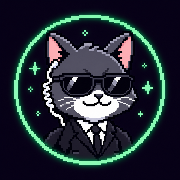
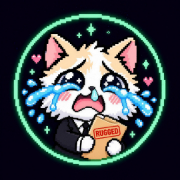
Site review: kittens stay in frame, the phone hero, crisp files, the kit's new coin art
A review of the new home page in headless Chromium (3D and no-WebGL, 390 and
1280 px, night and day), with its interactions driven in Playwright.

The 3D agency
- The camera is framed over the whole slow swing, not a quarter of it, so
  no kitten walks off the edge at either end (Popcat left the phone view,
  and the row pressed on the buttons on a wide screen).
- With reduced motion a frame is drawn only when something changes (a drag,
  a resize, the preference); the scene still stands still.
- The name tag's button draws its arrow in CSS; the pixel font has no
  triangle and showed a dot.

The phone hero
- The scrim no longer darkens the kittens: it covers the title and, below
  the stage, the words, and stops at the stage's edge.
- The roster picture (the fallback) shows all six kittens instead of four,
  feet on the band's floor, the sky fading in above.

The rest of the page
- An agent's file shows its kitten at exactly 2x (Popcat 1.5x), so every
  art pixel stays square; on a phone its floor spans the panel instead of
  shrinking to the kitten.
- Crying Cat in the scam warning stands at exactly half size.
- The sample case file sits level, so its monospace lines stay sharp.
- Code turns ligatures off: "https://" and "chrome://" read as typed, not
  as "https: //". The clone command breaks only between parts of the address.
- The $CIA portrait stays in view beside the long column on a wide screen;
  the contract-address note wraps evenly.
[…]

diff --git a/site/assets/home.css b/site/assets/home.css
@@ -37,7 +37,9 @@ a:hover{color:var(--mint-text)}
 :focus-visible{outline:3px solid var(--mint);outline-offset:3px}
 p{margin:0 0 14px;color:var(--text-soft)}
 b,strong{color:var(--text)}
+code,pre,.post,.ca,.slot{font-variant-ligatures:none}
 code{font-family:var(--mono);font-size:.86em;background:var(--bg-2);border:1px solid var(--line);padding:1px 5px;overflow-wrap:anywhere}
+code .nw{white-space:nowrap}
 .skip{position:absolute;left:-9999px;top:0}
 .skip:focus{left:12px;top:12px;z-index:60;background:var(--card);color:var(--text);padding:8px 12px}
 .wrap{max-width:1180px;margin:0 auto;padding:0 24px}
@@ -149,11 +151,13 @@ code{font-family:var(--mono);font-size:.86em;background:var(--bg-2);border:1px s
   .hero{min-height:0}
   .hero-grid{grid-template-columns:minmax(0,1fr);grid-template-areas:"top" "stage" "bottom";grid-template-rows:auto auto auto;padding-top:28px;padding-bottom:36px}
   .stage{position:relative;height:clamp(300px,94vw,500px);min-height:0;margin:-8px -24px 0}
-  .hero-poster{object-fit:cover;object-position:74% 66%}
+  .hero-poster{inset:auto auto 0 -37.3%;width:137%;max-width:none;height:auto;aspect-ratio:1200/514;object-fit:cover;
+    -webkit-mask-image:linear-gradient(180deg,transparent 0,#000 30%);mask-image:linear-gradient(180deg,transparent 0,#000 30%)}
   .hero[data-scene="poster"] .stage,.hero[data-scene="loading"] .stage,.hero[data-scene="fallback"] .stage{box-shadow:inset 0 3px 0 rgba(20,241,149,.35),inset 0 -3px 0 rgba(20,241,149,.35)}
-  .hero::after{background:
-    linear-gradient(180deg,rgba(11,7,22,.72) 0%,rgba(11,7,22,.2) 30%,rgba(11,7,22,0) 40%),
-    linear-gradient(0deg,rgba(11,7,22,.97) 0%,rgba(11,7,22,.86) 34%,rgba(11,7,22,0) 52%)}
+  /* The scrim darkens behind the title and, below the stage, behind the words, never over the kittens. */
+  .hero::after{background:linear-gradient(180deg,rgba(11,7,22,.72) 0%,rgba(11,7,22,.2) 30%,rgba(11,7,22,0) 40%)}
+  .hero-bottom::before{content:"";position:absolute;z-index:-1;top:0;bottom:-64px;left:-50vw;right:-50vw;
+    background:linear-gradient(180deg,rgba(11,7,22,0) 0,rgba(11,7,22,.9) 26px,rgba(11,7,22,.97) 100%)}
   .hero h1{font-size:clamp(50px,13.4vw,84px);margin-top:18px}
   .hint{right:12px;bottom:10px}
 }
@@ -168,7 +172,8 @@ code{font-family:var(--mono);font-size:.86em;background:var(--bg-2);border:1px s
   clip-path:polygon(0 0,100% 0,100% 25%,75% 25%,75% 50%,62.5% 50%,62.5% 75%,37.5% 75%,37.5% 50%,25% 50%,25% 25%,0 25%)}
 .nt-code{font:400 11px/1.2 var(--pixel);color:var(--accent);letter-spacing:.02em;text-transform:uppercase}
 .nt-beat{font:400 8px/1.3 var(--pixel);color:#e6e0ff;text-transform:uppercase}
-.nt-open{font:400 8px/1 var(--pixel);color:#0b0716;background:var(--accent);border:0;padding:7px 8px 6px;cursor:pointer;margin-top:2px;pointer-events:auto}
+.nt-open{font:400 8px/1 var(--pixel);color:#0b0716;background:var(--accent);border:0;padding:7px 8px 6px;cursor:pointer;margin-top:2px;pointer-events:auto;display:inline-flex;align-items:center;gap:6px}
+.nt-open::after{content:"";width:6px;height:8px;background:currentColor;clip-path:polygon(0 0,50% 0,50% 25%,75% 25%,75% 37.5%,100% 37.5%,100% 62.5%,75% 62.5%,75% 75%,50% 75%,50% 100%,0 100%)}
 .nametag.hover .nt-open{display:none}
 
 /* ── sections ──────────────────────────────────────────────────────────── */
@@ -274,8 +279,8 @@ details.file[open] summary::before{transform:rotate(90deg)}
 .rules li::before{content:counter(rule);grid-row:span 2;width:44px;height:44px;display:grid;place-content:center;font:400 16px/1 var(--pixel);color:#04160e;background:var(--mint);clip-path:var(--corners);box-shadow:inset 0 -4px 0 rgba(0,0,0,.25)}
 .rules h3{font:800 19px/1.3 var(--sans);color:var(--text);margin:8px 0 4px}
 .rules p{font-size:15px;margin:0}
-.casefile{--accent:var(--tear);position:relative;margin:0;background:var(--card);padding:26px 24px 24px;box-shadow:0 0 0 3px var(--tear),10px 10px 0 3px var(--shadow-ink);transform:rotate(.6deg)}
-@media (max-width:600px){.casefile{padding:22px 16px 18px;transform:none}}
+.casefile{--accent:var(--tear);position:relative;margin:0;background:var(--card);padding:26px 24px 24px;box-shadow:0 0 0 3px var(--tear),10px 10px 0 3px var(--shadow-ink)}
+@media (max-width:600px){.casefile{padding:22px 16px 18px}}
 .casefile figcaption{font-size:14px;color:var(--text-soft);margin:0 0 16px;padding-right:120px}
 @media (max-width:600px){.casefile figcaption{padding-right:0;padding-top:38px}}
 .case-stamp{position:absolute;top:18px;right:16px;font:400 12px/1 var(--pixel);text-transform:uppercase;color:var(--bad);border:3px dashed var(--bad);padding:9px 10px 8px;transform:rotate(-7deg);background:var(--card)}
@@ -293,6 +298,7 @@ details.file[open] summary::before{transform:rotate(90deg)}
 .cia-grid{display:grid;grid-template-columns:minmax(0,400px) minmax(0,1fr);gap:60px;align-items:start}
 @media (max-width:900px){.cia-grid{grid-template-columns:minmax(0,1fr);gap:40px}}
 .cia-portrait{position:relative;max-width:400px;margin:3px}
+@media (min-width:901px){.cia-portrait{position:sticky;top:104px}}
 .cia-portrait img{display:block;width:100%;height:auto;image-rendering:pixelated;box-shadow:0 0 0 3px var(--gold),12px 12px 0 3px var(--shadow-ink);background:#0b0716}
 @media (max-width:900px){.cia-portrait{max-width:300px}}
 .ticker{position:absolute;right:-14px;bottom:-22px;margin:0;font:400 clamp(40px,5vw,64px)/1 var(--display);color:var(--gold);background:#0b0716;padding:6px 14px 8px;box-shadow:0 0 0 3px var(--gold);transform:rotate(-4deg)}
@@ -308,14 +314,14 @@ details.file[open] summary::before{transform:rotate(90deg)}
 .ca-slot{display:grid;gap:8px}
 .ca{display:block;font:400 14px/1.4 var(--mono);color:var(--text);background:var(--bg-2);border:2px dashed var(--line-2);padding:12px 14px;overflow-wrap:anywhere;user-select:all}
 .ca[data-empty="true"]{color:var(--text-faint);font-style:italic;user-select:none}
-.ca-note{font:400 9px/1.6 var(--pixel);text-transform:uppercase;color:var(--gold-text)}
+.ca-note{font:400 9px/1.6 var(--pixel);text-transform:uppercase;color:var(--gold-text);text-wrap:balance}
 .scam{margin-top:32px;position:relative;background:var(--card);padding:22px 24px 20px 24px;box-shadow:0 0 0 3px var(--bad),8px 8px 0 3px var(--shadow-ink)}
 .scam-title{font:400 12px/1.4 var(--pixel);text-transform:uppercase;color:var(--bad);margin:0 0 10px}
 :root[data-theme="light"] .scam-title{color:#b8372a}
 .scam p{font-size:15.5px}
 .scam p:last-child{margin:0}
 .scam .crying{display:flex;align-items:center;gap:12px;font-weight:800;color:var(--tear-text)}
-.scam .crying img{width:auto;height:52px;flex:none}
+.scam .crying img{width:72px;height:auto;flex:none}
 
 /* ── CoinMarketCat ─────────────────────────────────────────────────────── */
 .cmc{background:linear-gradient(180deg,rgba(20,241,149,.07),transparent 380px),var(--bg-2);border-top:3px solid var(--line)}
@@ -372,8 +378,6 @@ details.file[open] summary::before{transform:rotate(90deg)}
 .dossier .agent .agent-floor{width:min(40%,320px);position:sticky;top:0;align-self:flex-start;height:min(560px,calc(100dvh - 54px));min-height:360px}
 /* On a wide screen the kitten in a file stands at twice its size (Popcat, holding its radar out, at one and a half). */
 @media (min-width:641px) and (min-height:620px){
-  .dossier .agent .agent-floor .kitten{width:auto;height:414px}
-  .dossier .agent[data-cat="popcat"] .agent-floor .kitten{height:316px}
   .dossier .agent .agent-floor::after{width:190px;margin-left:-95px;height:20px;bottom:30px}
 }
 .dossier .agent-body{padding:26px 28px 28px}
@@ -382,7 +386,7 @@ details.file[open] summary::before{transform:rotate(90deg)}
 @media (max-width:640px){
   .dossier{width:calc(100vw - 16px);max-height:calc(100dvh - 16px)}
   .dossier .agent{flex-direction:column}
-  .dossier .agent .agent-floor{width:auto;min-height:0;height:250px;position:relative}
+  .dossier .agent .agent-floor{width:auto;align-self:stretch;min-height:0;height:250px;position:relative}
   .dossier .agent-body{padding:20px 18px 22px}
   .dossier .agent h3{font-size:38px}
 }

diff --git a/site/index.html b/site/index.html
@@ -15,7 +15,7 @@
 <meta property="og:image" content="https://catintelligenceagency.com/assets/og-1200x630.jpg">
 <meta property="og:image:width" content="1200">
 <meta property="og:image:height" content="630">
-<meta property="og:image:alt" content="Six pixel kittens in black suits standing on a pixel floor at night, beside the title Cat Intelligence Agency">
+<meta property="og:image:alt" content="Six pixel kittens in black suits on a pixel floor at night, under the title Cat Intelligence Agency: Crying Cat sobs over a case file stamped RUGGED while the Director pats its head">
 <meta name="twitter:card" content="summary_large_image">
 <link rel="icon" href="assets/favicon-32.png" type="image/png" sizes="32x32">
 <link rel="icon" href="assets/favicon-64.png" type="image/png" sizes="64x64">
@@ -31,7 +31,7 @@
 })();
 </script>
 <link rel="stylesheet" href="assets/home.css">
-<link rel="preload" as="image" href="assets/site-hero-1200x514.jpg" imagesrcset="assets/site-hero-1200x514.jpg 1200w, assets/site-hero-2400x1029.jpg 2400w" imagesizes="(max-width: 900px) 170vw, 62vw">
+<link rel="preload" as="image" href="assets/site-hero-1200x514.jpg" imagesrcset="assets/site-hero-1200x514.jpg 1200w, assets/site-hero-2400x1029.jpg 2400w" imagesizes="(max-width: 900px) 140vw, 62vw">
 <script type="importmap">
 {
   "imports": {
@@ -66,7 +66,7 @@
   <div class="nametag" id="nametag" hidden>
     <span class="nt-code"></span>
     <span class="nt-beat"></span>
-    <button class="nt-open" type="button">Open file ▸</button>
+    <button class="nt-open" type="button">Open file</button>
   </div>
   <div class="wrap hero-grid">
     <div class="hero-top">
@@ -75,7 +75,7 @@
       <p class="headline">We read the chain.</p>
     </div>
     <div class="stage">
-      <img class="hero-poster" src="assets/site-hero-1200x514.jpg" srcset="assets/site-hero-1200x514.jpg 1200w, assets/site-hero-2400x1029.jpg 2400w" sizes="(max-width: 900px) 170vw, 62vw" width="1200" height="514" alt="The agency's six pixel kittens in black suits standing in a row on a pixel floor, under a night skyline" fetchpriority="high">
+      <img class="hero-poster" src="assets/site-hero-1200x514.jpg" srcset="assets/site-hero-1200x514.jpg 1200w, assets/site-hero-2400x1029.jpg 2400w" sizes="(max-width: 900px) 140vw, 62vw" width="1200" height="514" alt="The agency's six pixel kittens in black suits on a pixel floor under a night skyline: Crying Cat sobs over a case file stamped RUGGED while the Director pats its head" fetchpriority="high">
       <p class="hint" aria-hidden="true"><span class="pc">Drag to look around · click a kitten</span><span class="touch">Swipe sideways · tap a kitten</span></p>
     </div>
     <div class="hero-bottom">
@@ -102,7 +102,7 @@
         <h3>The Director</h3>
         <p class="beat"><b>Beat</b> Runs the agency, speaks for the main account and signs every correction. The logo.</p>
         <p class="catch">“The chain remembers.”</p>
-        <p class="bio">A secret-agent cat in a dark suit and sunglasses, with an earpiece. Every case opens with “Case open.” and ends with “Case closed.” When the agency gets one wrong, the correction goes out under the Director's name.</p>
+        <p class="bio">A secret-agent pixel kitten in a black suit and sunglasses, with an earpiece. When the agency gets a case wrong, the correction goes out under the Director's name, quoting the original. Its other lines: “Case open.” and “Case closed.”</p>
         <details class="file">
           <summary>Open the file</summary>
           <div class="file-body">
@@ -129,7 +129,7 @@ We got it wrong. The original stays up, corrected. - The Director</pre>
           <p class="catch">“Ten seconds. Then maybe.”</p>
           <p class="bio">CoinMarketCat watches new Solana launches and, once you arm it, buys only the ones still at or above entry ten seconds later, from your Phantom wallet or an autopilot wallet you fund, inside the take-profit, ticket and daily budget you set. It learned that rule from a trading lane that lost money, starts in Observe, and prints that losing record beside the switch that arms it.</p>
           <details class="file">
-            <summary>Open the file</summary>
+            <summary>Quick facts</summary>
             <dl class="file-body facts">
               <dt>Type</dt><dd>Software. A Chrome extension you build and run yourself.</dd>
               <dt>Hunts</dt><dd>New Solana launches on pump.fun, including launches priced in tokenised stocks like GLDx, TSLAx and SPYx. Once you switch it on, it also hunts new stock-paired pools across Solana, through Jupiter.</dd>
@@ -245,7 +245,7 @@ We got it wrong. The original stays up, corrected. - The Director</pre>
         <figcaption id="case-cap"><b>Sample case file.</b> A template with placeholder fields, not a real case: every <span class="slot">[slot]</span> is filled from public data before it is posted.</figcaption>
         <div class="thread">
           <div class="post-card">
-            <div class="who"><img src="assets/cia-director-80.png" width="40" height="40" alt="" loading="lazy"><span><b>Cat Intelligence Agency</b> <span class="slot">@[handle]</span></span></div>
+            <div class="who"><img src="assets/cia-avatar-80.png" width="40" height="40" alt="" loading="lazy"><span><b>Cat Intelligence Agency</b> <span class="slot">@[handle]</span></span></div>
 <pre class="post">CRYING CAT | CASE CRY-<span class="slot">[001]</span> | RUG REPORT
 
 Token: <span class="slot">[name]</span> ($<span class="slot">[TICKER]</span>)
@@ -281,7 +281,7 @@ This is our opinion on public on-chain data, not an accusation of a crime. Wrong
 <section class="cia" id="cia" aria-labelledby="cia-title">
   <div class="wrap cia-grid">
     <div class="cia-portrait">
-      <picture><source srcset="assets/cia-director-400.webp" type="image/webp"><img src="assets/cia-director-400.png" width="400" height="400" alt="The Director, the agency's logo: a pixel grey kitten in sunglasses and a black suit inside a mint ring" loading="lazy"></picture>
+      <picture><source srcset="assets/cia-coin-400.webp" type="image/webp"><img src="assets/cia-coin-400.png" width="400" height="400" alt="The $CIA coin image: pixel Crying Cat in a black suit, sobbing over a case file stamped RUGGED, inside a mint ring" loading="lazy"></picture>
       <p class="ticker" aria-hidden="true">$CIA</p>
     </div>
     <div class="cia-copy">
@@ -334,7 +334,7 @@ This is our opinion on public on-chain data, not an accusation of a crime. Wrong
         <p class="get-title">How you get it</p>
         <p>It is not in the Chrome Web Store; you build it from source:</p>
         <ol class="steps">
-          <li><span><code>git clone https://github.com/gtjvv976mb-netizen/Cat-Intelligence-Agency</code></span></li>
+          <li><span><code><span class="nw">git clone</span> <span class="nw">https://github.com/</span><wbr><span class="nw">gtjvv976mb-netizen/</span><wbr><span class="nw">Cat-Intelligence-Agency</span></code></span></li>
           <li><span>Run <code>npm ci &amp;&amp; npm run build</code>.</span></li>
           <li><span>Open <code>chrome://extensions</code>, turn on Developer mode, choose Load unpacked, and pick <code>dist</code>.</span></li>
         </ol>

diff --git a/site/assets/home.js b/site/assets/home.js
@@ -56,6 +56,14 @@
     copy.classList.add("in-dossier");
     for (const el of copy.querySelectorAll("[id]")) el.removeAttribute("id");
     for (const img of copy.querySelectorAll("img")) img.loading = "eager";
+    // On a wide screen the kitten in a file stands at exactly twice its size (Popcat, holding
+    // its radar out, at one and a half), so every art pixel stays square and sharp.
+    const kit = copy.querySelector(".agent-floor .kitten");
+    if (kit && matchMedia("(min-width:641px) and (min-height:620px)").matches) {
+      const s = cat === "popcat" ? 1.5 : 2;
+      kit.style.width = Number(kit.getAttribute("width")) * s + "px";
+      kit.style.height = Number(kit.getAttribute("height")) * s + "px";
+    }
     const file = copy.querySelector("details.file");
     if (file) file.open = true;
     const title = copy.querySelector("h3");
@@ -65,10 +73,12 @@
     opener = document.activeElement;
     dialog.showModal();
     dialog.scrollTop = 0;
-    // Side by side, the kitten's column is as tall as the file, or the panel, whichever is shorter.
+    // Side by side, the kitten's column is as tall as the file, or the panel, whichever is
+    // shorter, and never shorter than the kitten standing on its floor.
     const floor = copy.querySelector(".agent-floor"), body = copy.querySelector(".agent-body");
     if (floor && body && getComputedStyle(copy).flexDirection === "row") {
-      floor.style.height = Math.max(360, Math.min(body.offsetHeight, dialog.clientHeight)) + "px";
+      const standing = kit ? kit.offsetHeight + 110 : 0;
+      floor.style.height = Math.max(360, standing, Math.min(body.offsetHeight, dialog.clientHeight)) + "px";
     }
   };
   document.addEventListener("cia:dossier", (e) => open(e.detail.cat));

diff --git a/site/assets/hq3d.js b/site/assets/hq3d.js
@@ -362,10 +362,11 @@ function frame() {
   const sw = Math.max(right - left, 200), sh = Math.max(box.height, 200);
   const sx = left + sw / 2, sy = top + sh / 2;
   const az = AZ_CENTER;
+  // Fit over the whole slow swing, so no kitten walks off the edge at either end of it.
   const measure = (d) => {
     distance = d;
     let x0 = Infinity, x1 = -Infinity, y0 = Infinity, y1 = -Infinity;
-    for (const a of [az - AZ_SWING * 0.25, az, az + AZ_SWING * 0.25]) {
+    for (const a of [az - AZ_SWING, az - AZ_SWING * 0.5, az, az + AZ_SWING * 0.5, az + AZ_SWING]) {
       placeCamera(a);
       camera.updateMatrixWorld();
       for (const p of subject) {
@@ -387,8 +388,14 @@ function frame() {
   controls.minDistance = controls.maxDistance = distance;
   placeCamera(currentAz ?? AZ_CENTER, currentPolar ?? POLAR);
   controls.update();
+  dirty = true;
 }
 let currentAz = null, currentPolar = null;
+/* With reduced motion nothing moves on its own, so a frame is drawn only when something
+   changed: a drag, a resize, or the preference itself. */
+let dirty = true;
+controls.addEventListener("change", () => { dirty = true; });
+reduceMotion.addEventListener?.("change", () => { dirty = true; });
 
 /* ── interaction: hover, tap, click, keys ─────────────────────────────── */
 const raycaster = new THREE.Raycaster();
@@ -580,6 +587,8 @@ function tick() {
     cycling = -1;
   }
 
+  if (still && !dirty) return;
+  dirty = false;
   renderer.render(scene, camera);
   placeTag();
 }

diff --git a/site/coinmarketcat/index.html b/site/coinmarketcat/index.html
@@ -15,7 +15,7 @@
 <meta property="og:image" content="https://catintelligenceagency.com/assets/og-1200x630.jpg">
 <meta property="og:image:width" content="1200">
 <meta property="og:image:height" content="630">
-<meta property="og:image:alt" content="Six pixel kittens in black suits standing on a pixel floor at night, beside the title Cat Intelligence Agency">
+<meta property="og:image:alt" content="Six pixel kittens in black suits on a pixel floor at night, under the title Cat Intelligence Agency: Crying Cat sobs over a case file stamped RUGGED while the Director pats its head">
 <meta name="twitter:card" content="summary_large_image">
 <link rel="icon" href="../assets/favicon-32.png" type="image/png" sizes="32x32">
 <link rel="icon" href="../assets/favicon-64.png" type="image/png" sizes="64x64">

diff --git a/site/console/index.html b/site/console/index.html
@@ -15,7 +15,7 @@
 <meta property="og:image" content="https://catintelligenceagency.com/assets/og-1200x630.jpg">
 <meta property="og:image:width" content="1200">
 <meta property="og:image:height" content="630">
-<meta property="og:image:alt" content="Six pixel kittens in black suits standing on a pixel floor at night, beside the title Cat Intelligence Agency">
+<meta property="og:image:alt" content="Six pixel kittens in black suits on a pixel floor at night, under the title Cat Intelligence Agency: Crying Cat sobs over a case file stamped RUGGED while the Director pats its head">
 <meta name="twitter:card" content="summary_large_image">
 <link rel="icon" href="../assets/favicon-32.png" type="image/png" sizes="32x32">
 <link rel="icon" href="../assets/favicon-64.png" type="image/png" sizes="64x64">
